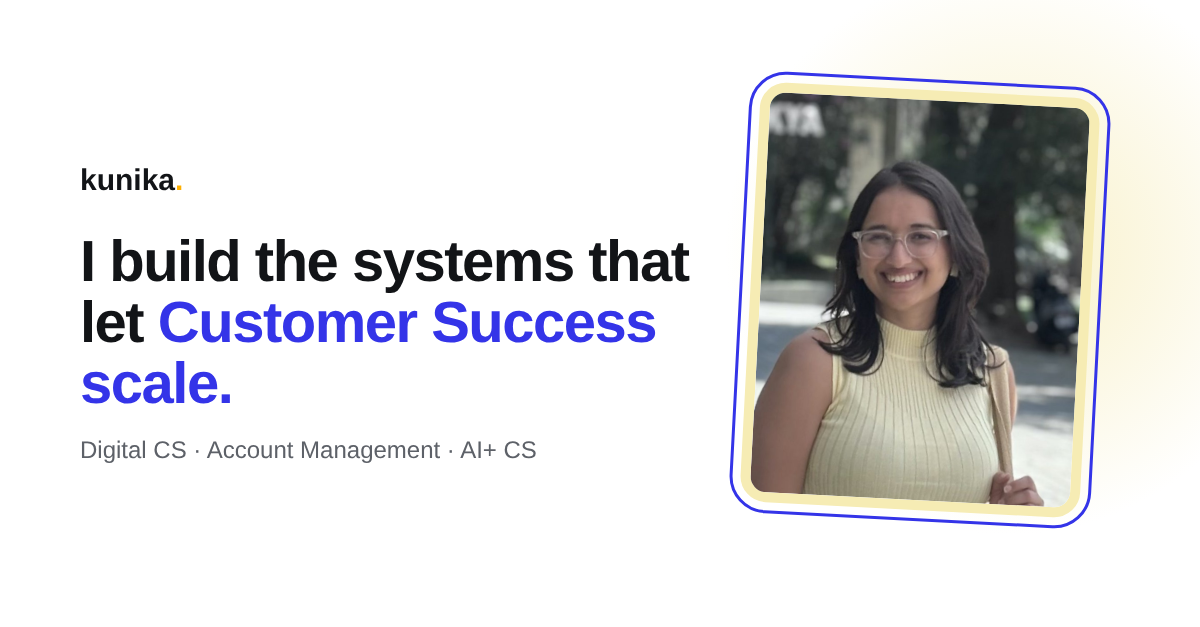
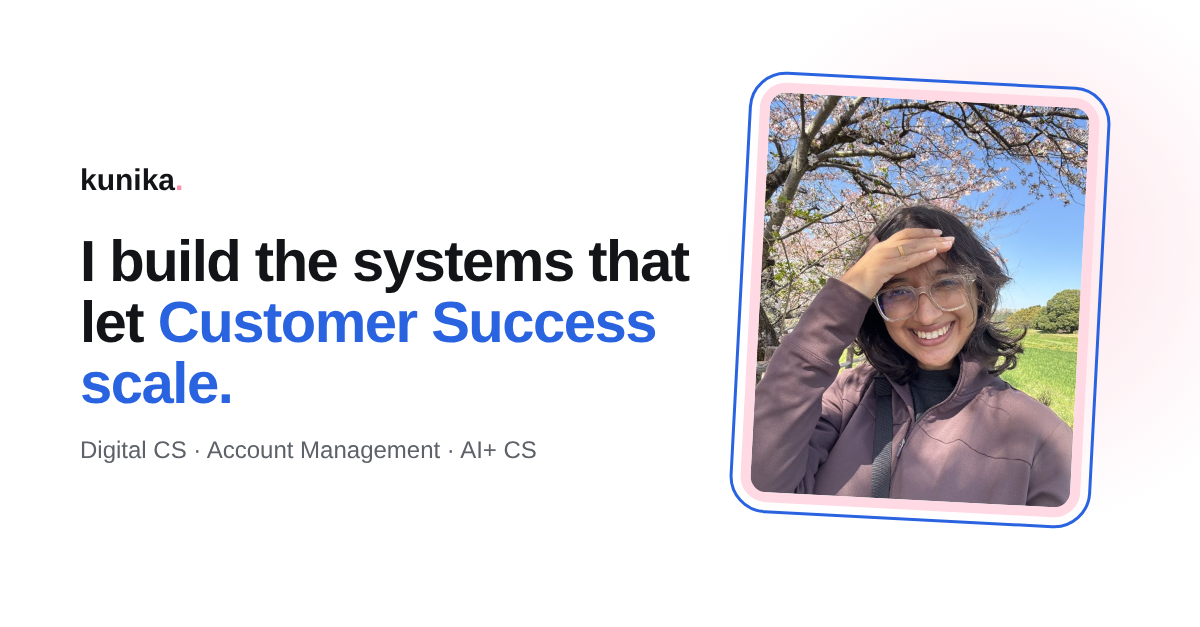
New photo and blossom-and-sky palette
Claude-Session: https://claude.ai/code/session_01E59ke3pU6eDzKkBigHzwRn

Changed region(s): [[0.6167, 0.0909, 0.925, 0.8485], [0.1233, 0.4848, 0.555, 0.5455], [0.0617, 0.5758, 0.185, 0.6667]]

diff --git a/style.css b/style.css
@@ -4,16 +4,16 @@
   --ink: #121417;
   --muted: #5d6168;
   --line: #e6e6ea;
-  --accent: #3434e8;
+  --accent: #2a63e0;
   --on-accent: #ffffff;
-  --sun: #ffb000;
-  --lavender: #b6b6ff;
+  --sun: #ff8fae;
+  --lavender: #b9cdf7;
   --lavender-soft: #f2f2f6;
-  --hero-grad: radial-gradient(circle at 82% 38%, #f8f0c6 0, transparent 34%), radial-gradient(circle at 68% 78%, #e3efd8 0, transparent 30%), #ffffff;
-  --tint: #f3f1ff;
-  --sun-ink: #8a5a00;
-  --card-grad: #eef0ff;
-  --card-grad-2: #fff3d6;
+  --hero-grad: radial-gradient(circle at 82% 34%, #fde3ea 0, transparent 34%), radial-gradient(circle at 66% 80%, #e6f3da 0, transparent 30%), radial-gradient(circle at 95% 80%, #e2ecff 0, transparent 28%), #ffffff;
+  --tint: #f1f5ff;
+  --sun-ink: #6b4a5d;
+  --card-grad: #edf3ff;
+  --card-grad-2: #ffeef3;
   --forest: #121417;
   --forest-2: #2a2d33;
 
@@ -23,14 +23,14 @@
 }
 @media (prefers-color-scheme: dark) {
   :root:not([data-theme="light"]) {
-    --bg: #0f1012; --ink: #f2f2f4; --muted: #a2a6ae; --line: #26282d; --accent: #8f8fff; --on-accent: #0f1012;
-    --lavender: #4a4aa8; --lavender-soft: #1b1c21; --hero-grad: radial-gradient(circle at 82% 38%, #2e2a14 0, transparent 34%), radial-gradient(circle at 68% 78%, #18261a 0, transparent 30%), #0f1012; --tint: #17172a; --sun-ink: #ffcf66; --card-grad: #1c1d33; --card-grad-2: #2a2412;
+    --bg: #0f1012; --ink: #f2f2f4; --muted: #a2a6ae; --line: #26282d; --accent: #8fb2ff; --on-accent: #0f1012;
+    --lavender: #3c5a9e; --lavender-soft: #1b1c21; --hero-grad: radial-gradient(circle at 82% 38%, #2e2a14 0, transparent 34%), radial-gradient(circle at 68% 78%, #18261a 0, transparent 30%), #0f1012; --tint: #17172a; --sun-ink: #ffcf66; --card-grad: #16223a; --card-grad-2: #2e1c24;
     color-scheme: dark;
   }
 }
 :root[data-theme="dark"] {
-  --bg: #0f1012; --ink: #f2f2f4; --muted: #a2a6ae; --line: #26282d; --accent: #8f8fff; --on-accent: #0f1012;
-  --lavender: #4a4aa8; --lavender-soft: #1b1c21; --hero-grad: radial-gradient(circle at 82% 38%, #2e2a14 0, transparent 34%), radial-gradient(circle at 68% 78%, #18261a 0, transparent 30%), #0f1012; --tint: #17172a; --sun-ink: #ffcf66; --card-grad: #1c1d33; --card-grad-2: #2a2412;
+  --bg: #0f1012; --ink: #f2f2f4; --muted: #a2a6ae; --line: #26282d; --accent: #8fb2ff; --on-accent: #0f1012;
+  --lavender: #3c5a9e; --lavender-soft: #1b1c21; --hero-grad: radial-gradient(circle at 82% 38%, #2e2a14 0, transparent 34%), radial-gradient(circle at 68% 78%, #18261a 0, transparent 30%), #0f1012; --tint: #17172a; --sun-ink: #ffcf66; --card-grad: #16223a; --card-grad-2: #2e1c24;
   color-scheme: dark;
 }
 
@@ -59,10 +59,10 @@ img { max-width: 100%; display: block; }
 .hero > * { min-width: 0; }
 .portrait { justify-self: end; position: relative; width: 380px; height: 460px; margin: 70px -56px 30px 0; transform: rotate(3deg); }
 .portrait img, .note { z-index: 1; }
-.portrait img { position: relative; display: block; width: 380px; height: 460px; max-width: none; object-fit: cover; object-position: 50% 30%; border-radius: 26px; border: 9px solid #f6ecb4; outline: 3px solid var(--accent); outline-offset: 7px; box-shadow: 0 22px 44px rgba(120, 110, 40, .20); }
+.portrait img { position: relative; display: block; width: 380px; height: 460px; max-width: none; object-fit: cover; object-position: 50% 30%; border-radius: 26px; border: 9px solid #ffd9e3; outline: 3px solid var(--accent); outline-offset: 7px; box-shadow: 0 22px 44px rgba(91, 69, 82, .22); }
 .portrait::before { content: ""; position: absolute; inset: -40px; background: url(kunika.jpg) center 30% / cover; filter: blur(42px) saturate(1.6); opacity: .55; border-radius: 50%; z-index: 0; }
-.portrait::after { content: ""; position: absolute; width: 40px; height: 40px; border-radius: 50%; background: #b9d8a8; top: -18px; left: -18px; z-index: 2; }
-.note { position: absolute; z-index: 3; right: -30px; bottom: -34px; width: 210px; transform: rotate(-4deg); background: var(--sun); color: #16271d; padding: 10px 14px; border-radius: 4px 4px 4px 14px; font-size: 13.5px; line-height: 1.4; font-weight: 600; box-shadow: 0 8px 20px rgba(18,20,23,.14); }
+.portrait::after { content: ""; position: absolute; width: 40px; height: 40px; border-radius: 50%; background: #a9d77a; top: -18px; left: -18px; z-index: 2; }
+.note { position: absolute; z-index: 3; right: -30px; bottom: -34px; width: 210px; transform: rotate(-4deg); background: #ffd3df; color: #3a2a33; padding: 10px 14px; border-radius: 4px 4px 4px 14px; font-size: 13.5px; line-height: 1.4; font-weight: 600; box-shadow: 0 8px 20px rgba(18,20,23,.14); }
 .note b { font-family: var(--mono); font-size: 10.5px; letter-spacing: 1px; text-transform: uppercase; display: block; margin-bottom: 2px; }
 .eyebrow { font-family: var(--mono); font-size: 13px; letter-spacing: 1.2px; text-transform: uppercase; color: var(--muted); margin: 0 0 18px; }
 .sheet { position: relative; z-index: 1; background: var(--bg); }
@@ -148,7 +148,7 @@ p { margin: 0 0 16px; }
 #services { padding-block: 88px 8px; }
 #services > .wrap { max-width: 1280px; }
 .panel { background: #14161b; color: #f2f2f4; border: 1px solid rgba(255,255,255,.08); border-radius: 36px; padding: 72px 64px 52px; position: relative; overflow: hidden; }
-.panel::before { content: ""; position: absolute; width: 420px; height: 420px; right: -140px; top: -180px; border-radius: 50%; background: radial-gradient(circle, rgba(52, 52, 232, .45), transparent 70%); pointer-events: none; }
+.panel::before { content: ""; position: absolute; width: 420px; height: 420px; right: -140px; top: -180px; border-radius: 50%; background: radial-gradient(circle, rgba(42, 99, 224, .45), transparent 70%); pointer-events: none; }
 .panel > * { position: relative; }
 .panel .kicker { color: #a3a8b2; }
 .panel .kicker::before { background: var(--sun); }
@@ -162,7 +162,7 @@ p { margin: 0 0 16px; }
 .panel-cta p { font-size: 18px; }
 .panel .offer { background: rgba(255,255,255,.04); border-color: rgba(255,255,255,.10); color: #f2f2f4; }
 .panel .offer::before { display: none; }
-.panel .offer .label { color: #a7a7ff; }
+.panel .offer .label { color: #9dbcff; }
 .panel .offer:nth-child(even) .label { color: var(--sun); }
 .panel .offer h3 { color: #fff; }
 .panel .offer p { color: #b3b8c1; }
@@ -173,7 +173,7 @@ p { margin: 0 0 16px; }
 .panel-cta { display: flex; align-items: center; justify-content: space-between; gap: 16px; flex-wrap: wrap; margin-top: 28px; padding-top: 24px; border-top: 1px solid rgba(255,255,255,.10); }
 .panel-cta p { margin: 0; color: #d6d9de; font-size: 17px; }
 .btn-sun { background: var(--sun); color: #14161b; border-color: var(--sun); }
-.btn-sun:hover { background: #ffc233; border-color: #ffc233; }
+.btn-sun:hover { background: #ffa8c0; border-color: #ffa8c0; }
 @media (max-width: 640px) { .panel { padding: 36px 20px 28px; border-radius: 24px; } .panel h2 { font-size: 28px; } .panel .offer { min-height: 0; } }
 .offers { display: grid; grid-template-columns: repeat(4, 1fr); gap: 16px; }
 .offer .label { font-family: var(--display); font-weight: 800; font-size: 22px; line-height: 1.1; letter-spacing: -0.6px; color: var(--accent); margin-bottom: 4px; }
@@ -301,20 +301,20 @@ p { margin: 0 0 16px; }
 .ring { position: absolute; left: 50%; top: 50%; width: 460px; height: 460px; margin: -230px 0 0 -230px; border-radius: 50%; border: 2px dashed rgba(255,255,255,.18); animation: spin 60s linear infinite; }
 .ring::after { content: ""; position: absolute; inset: 34px; border-radius: 50%; border: 1px solid rgba(255,255,255,.08); }
 @keyframes spin { to { transform: rotate(360deg); } }
-.hub { position: absolute; left: 50%; top: 50%; width: 290px; height: 290px; margin: -145px 0 0 -145px; border-radius: 50%; background: radial-gradient(circle at 30% 25%, #2a2bd0, #1a1b6e 70%); box-shadow: 0 0 0 10px rgba(52,52,232,.15), 0 30px 60px rgba(0,0,0,.45); display: flex; flex-direction: column; align-items: center; justify-content: center; text-align: center; padding: 30px 32px; gap: 7px; }
+.hub { position: absolute; left: 50%; top: 50%; width: 290px; height: 290px; margin: -145px 0 0 -145px; border-radius: 50%; background: radial-gradient(circle at 30% 25%, #2f6fe8, #17337a 72%); box-shadow: 0 0 0 10px rgba(42,99,224,.16), 0 30px 60px rgba(0,0,0,.45); display: flex; flex-direction: column; align-items: center; justify-content: center; text-align: center; padding: 30px 32px; gap: 7px; }
 .hub-label { font-family: var(--mono); font-size: 12px; letter-spacing: 1.4px; text-transform: uppercase; color: var(--sun); }
 .hub-title { color: #fff; font-size: 19px; line-height: 1.2; margin: 0; }
-.hub-text { color: #d9dbff; font-size: 14px; line-height: 1.5; margin: 0; }
+.hub-text { color: #dbe6ff; font-size: 14px; line-height: 1.5; margin: 0; }
 .hub.swap > * { animation: hubIn .45s ease both; }
 @keyframes hubIn { from { opacity: 0; transform: translateY(6px); } to { opacity: 1; transform: none; } }
 .node { position: absolute; display: inline-flex; align-items: center; gap: 10px; padding: 12px 20px; border-radius: 999px; border: 1px solid rgba(255,255,255,.18); background: #1d2027; color: #f2f2f4; font: 700 16px var(--display); letter-spacing: -.2px; cursor: pointer; transition: transform .25s, background .25s, color .25s, border-color .25s, box-shadow .25s; white-space: nowrap; }
-.node i { width: 10px; height: 10px; border-radius: 50%; background: #a7a7ff; transition: background .25s, transform .25s; }
+.node i { width: 10px; height: 10px; border-radius: 50%; background: #9dbcff; transition: background .25s, transform .25s; }
 .node:nth-of-type(even) i { background: var(--sun); }
 .node.n1 { top: 50px; left: 50%; transform: translate(-50%, -50%); }
 .node.n2 { left: 530px; top: 50%; transform: translate(-50%, -50%); }
 .node.n3 { top: 510px; left: 50%; transform: translate(-50%, -50%); }
 .node.n4 { left: 70px; top: 50%; transform: translate(-50%, -50%); }
-.node:hover, .node.is-active { background: var(--sun); color: #14161b; border-color: var(--sun); box-shadow: 0 10px 30px rgba(255,176,0,.35); }
+.node:hover, .node.is-active { background: var(--sun); color: #14161b; border-color: var(--sun); box-shadow: 0 10px 30px rgba(255,143,174,.35); }
 .node.is-active i, .node:hover i { background: #14161b; transform: scale(1.2); }
 .node.is-active { transform: translate(-50%, -50%) scale(1.08); }
 @media (max-width: 1100px) {

diff --git a/index.html b/index.html
@@ -10,16 +10,16 @@
 <meta property="og:type" content="website">
 <meta property="og:title" content="Kunika Agarwal · Customer Success systems">
 <meta property="og:description" content="I build the systems that let Customer Success scale without losing the human part.">
-<meta property="og:image" content="https://kunika-agarwal.github.io/og.png">
+<meta property="og:image" content="https://kunika-agarwal.github.io/og.png?v=2">
 <meta property="og:image:width" content="1200">
 <meta property="og:image:height" content="627">
 <meta property="og:url" content="https://kunika-agarwal.github.io/">
 <meta name="twitter:card" content="summary_large_image">
-<meta name="twitter:image" content="https://kunika-agarwal.github.io/og.png">
+<meta name="twitter:image" content="https://kunika-agarwal.github.io/og.png?v=2">
 <link rel="preconnect" href="https://fonts.googleapis.com">
 <link rel="preconnect" href="https://fonts.gstatic.com" crossorigin>
 <link href="https://fonts.googleapis.com/css2?family=Bricolage+Grotesque:opsz,wght@12..96,600;12..96,700;12..96,800&family=DM+Mono:wght@400;500&family=Figtree:wght@400;600;700&display=swap" rel="stylesheet">
-<link rel="stylesheet" href="style.css?v=18">
+<link rel="stylesheet" href="style.css?v=19">
 </head>
 <body class="home">
 <header class="site-header">
@@ -47,7 +47,7 @@
       </div>
       </div>
       <div class="portrait">
-        <img src="kunika.jpg" alt="Kunika smiling outdoors in a pale yellow top" width="900" height="900">
+        <img src="kunika.jpg?v=2" alt="Kunika smiling outdoors in a pale yellow top" width="900" height="900">
         <div class="note"><b>Exploring lately</b>AI+ CS teams, humans shouldn't have to 'just check in' anymore</div>
       </div>
     </div>

diff --git a/account-management.html b/account-management.html
@@ -9,16 +9,16 @@
 <meta property="og:type" content="website">
 <meta property="og:title" content="Kunika Agarwal · Customer Success systems">
 <meta property="og:description" content="I build the systems that let Customer Success scale without losing the human part.">
-<meta property="og:image" content="https://kunika-agarwal.github.io/og.png">
+<meta property="og:image" content="https://kunika-agarwal.github.io/og.png?v=2">
 <meta property="og:image:width" content="1200">
 <meta property="og:image:height" content="627">
 <meta property="og:url" content="https://kunika-agarwal.github.io/">
 <meta name="twitter:card" content="summary_large_image">
-<meta name="twitter:image" content="https://kunika-agarwal.github.io/og.png">
+<meta name="twitter:image" content="https://kunika-agarwal.github.io/og.png?v=2">
 <link rel="preconnect" href="https://fonts.googleapis.com">
 <link rel="preconnect" href="https://fonts.gstatic.com" crossorigin>
 <link href="https://fonts.googleapis.com/css2?family=Bricolage+Grotesque:opsz,wght@12..96,600;12..96,700;12..96,800&family=DM+Mono:wght@400;500&family=Figtree:wght@400;600;700&display=swap" rel="stylesheet">
-<link rel="stylesheet" href="style.css?v=18">
+<link rel="stylesheet" href="style.css?v=19">
 </head>
 <body>
 <header class="site-header">

diff --git a/ai-outreach.html b/ai-outreach.html
@@ -9,16 +9,16 @@
 <meta property="og:type" content="website">
 <meta property="og:title" content="Kunika Agarwal · Customer Success systems">
 <meta property="og:description" content="I build the systems that let Customer Success scale without losing the human part.">
-<meta property="og:image" content="https://kunika-agarwal.github.io/og.png">
+<meta property="og:image" content="https://kunika-agarwal.github.io/og.png?v=2">
 <meta property="og:image:width" content="1200">
 <meta property="og:image:height" content="627">
 <meta property="og:url" content="https://kunika-agarwal.github.io/">
 <meta name="twitter:card" content="summary_large_image">
-<meta name="twitter:image" content="https://kunika-agarwal.github.io/og.png">
+<meta name="twitter:image" content="https://kunika-agarwal.github.io/og.png?v=2">
 <link rel="preconnect" href="https://fonts.googleapis.com">
 <link rel="preconnect" href="https://fonts.gstatic.com" crossorigin>
 <link href="https://fonts.googleapis.com/css2?family=Bricolage+Grotesque:opsz,wght@12..96,600;12..96,700;12..96,800&family=DM+Mono:wght@400;500&family=Figtree:wght@400;600;700&display=swap" rel="stylesheet">
-<link rel="stylesheet" href="style.css?v=18">
+<link rel="stylesheet" href="style.css?v=19">
 </head>
 <body>
 <header class="site-header">

diff --git a/digital-cs.html b/digital-cs.html
@@ -9,16 +9,16 @@
 <meta property="og:type" content="website">
 <meta property="og:title" content="Kunika Agarwal · Customer Success systems">
 <meta property="og:description" content="I build the systems that let Customer Success scale without losing the human part.">
-<meta property="og:image" content="https://kunika-agarwal.github.io/og.png">
+<meta property="og:image" content="https://kunika-agarwal.github.io/og.png?v=2">
 <meta property="og:image:width" content="1200">
 <meta property="og:image:height" content="627">
 <meta property="og:url" content="https://kunika-agarwal.github.io/">
 <meta name="twitter:card" content="summary_large_image">
-<meta name="twitter:image" content="https://kunika-agarwal.github.io/og.png">
+<meta name="twitter:image" content="https://kunika-agarwal.github.io/og.png?v=2">
 <link rel="preconnect" href="https://fonts.googleapis.com">
 <link rel="preconnect" href="https://fonts.gstatic.com" crossorigin>
 <link href="https://fonts.googleapis.com/css2?family=Bricolage+Grotesque:opsz,wght@12..96,600;12..96,700;12..96,800&family=DM+Mono:wght@400;500&family=Figtree:wght@400;600;700&display=swap" rel="stylesheet">
-<link rel="stylesheet" href="style.css?v=18">
+<link rel="stylesheet" href="style.css?v=19">
 </head>
 <body>
 <header class="site-header">
